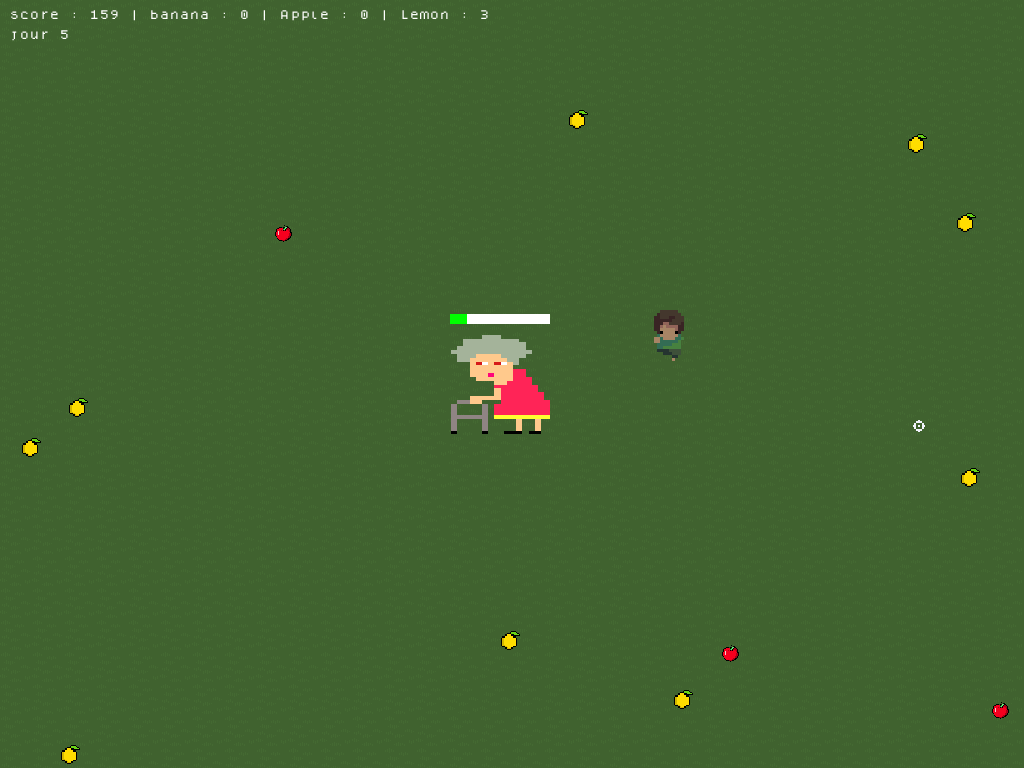
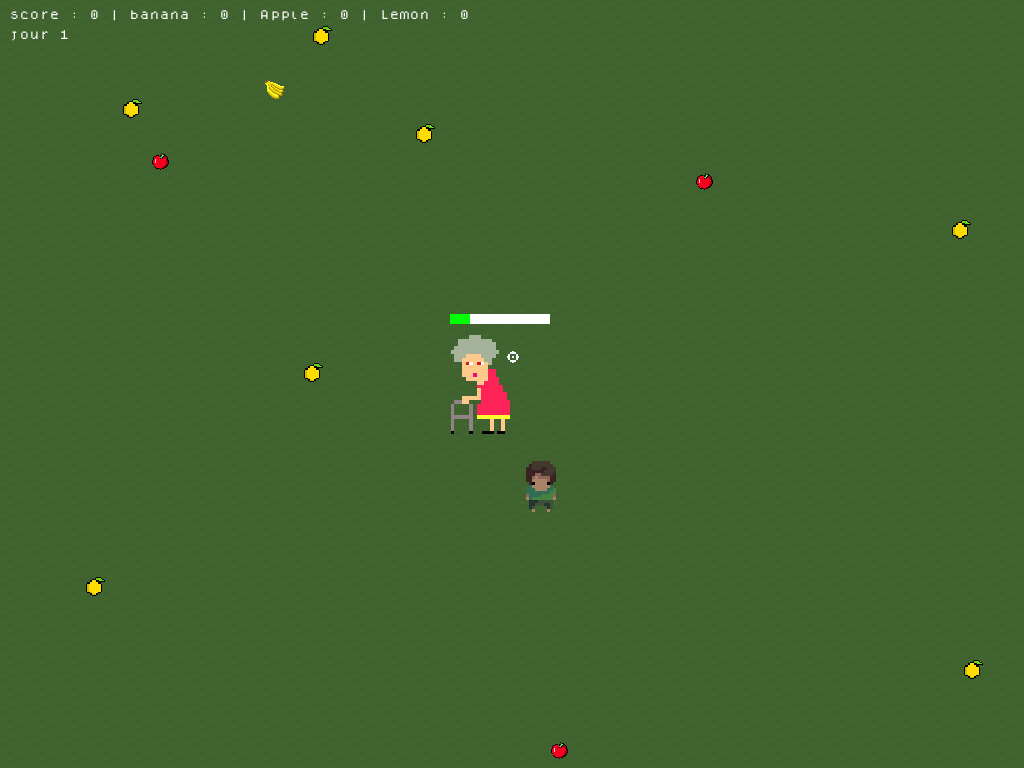
grandma's hit box fixed

diff --git a/gamejam_project/gamejam_project/Model/GrandMa.py b/gamejam_project/gamejam_project/Model/GrandMa.py
@@ -23,7 +23,7 @@ class GrandMa:
         return self.point
 
     def inHitBox(self, point: Point) -> bool:
-        if self.getPoint().getx() <= point.getx() <= self.getPoint().getx() + 100 \
+        if self.getPoint().getx() <= point.getx() <= self.getPoint().getx() + 60 \
                 and self.getPoint().gety() <= point.gety() <= self.getPoint().gety() + 100:
             return True
         else:
@@ -61,7 +61,7 @@ class GrandMa:
 
     def drawGrandma(self, window, bool):
         GRANDMA_IMG = pygame.image.load("img/grandma.png")
-        GRANDMA_IMG = pygame.transform.scale(GRANDMA_IMG, (100, 100))
+        GRANDMA_IMG = pygame.transform.scale(GRANDMA_IMG, (60, 100))
         if bool:
             GRANDMA_IMG = pygame.transform.flip(GRANDMA_IMG, True, True)
 

diff --git a/gamejam_project/gamejam_project/main.py b/gamejam_project/gamejam_project/main.py
@@ -30,7 +30,7 @@ grass_img = pygame.image.load("img/grass.png")
 
 # First instances
 player = Player("Gab", 3, Point(100, 100), [])
-grandma = GrandMa("mamie", 100, Point(450, 334))
+grandma = GrandMa("mamie", 100, Point(470, 334))
 # Fruits
 time_Before = pygame.time.get_ticks()
 newFruitX = random.randint(0, 1004)
